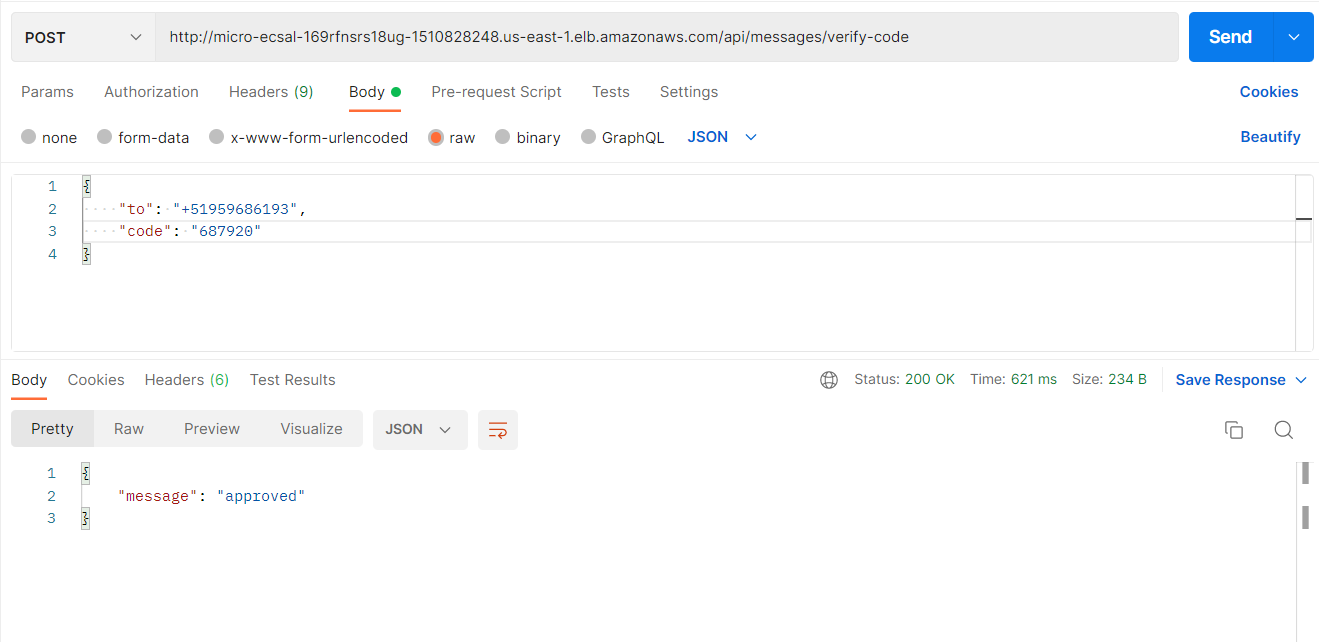
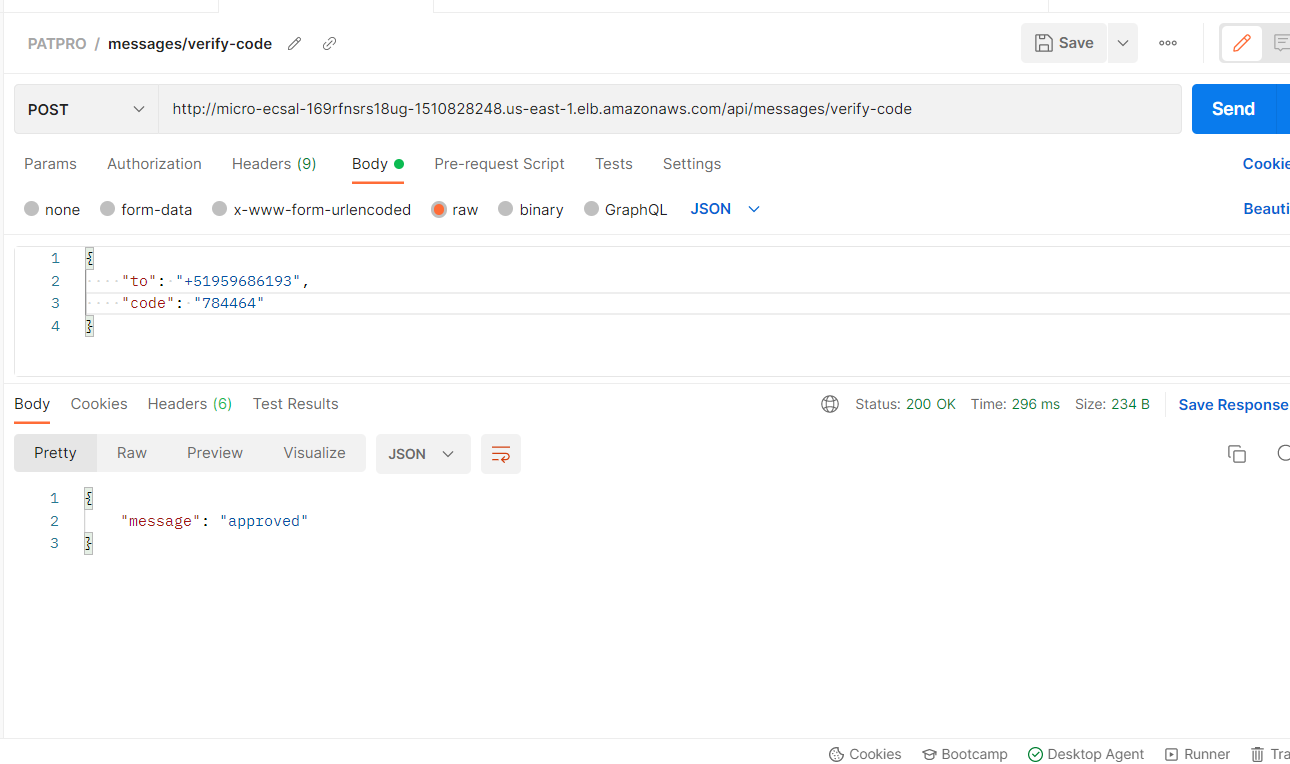
add new images

diff --git a/README.md b/README.md
@@ -143,6 +143,17 @@ Una vez que hayamos verificado que este nuevo microservicio funciona, podemos el
    $ ./deploy.sh <región> <nombre de pila>
 
 ![](./assets/14.PNG)
-![](./assets/16.PNG)
+
+### Ahora si, A probar !
+
+-  Microservicio que resuelve en la ruta : _/api/messages/_
 ![](./assets/17.PNG)
 ![](./assets/18.PNG)
+![](./assets/Patpro4.jpg)
+
+
+-  Microservicio que resuelve en la ruta : _/api/others/_
+![](./assets/16.PNG)
+
+<font size="1">Como plantilla para otros servicios</font>
+
